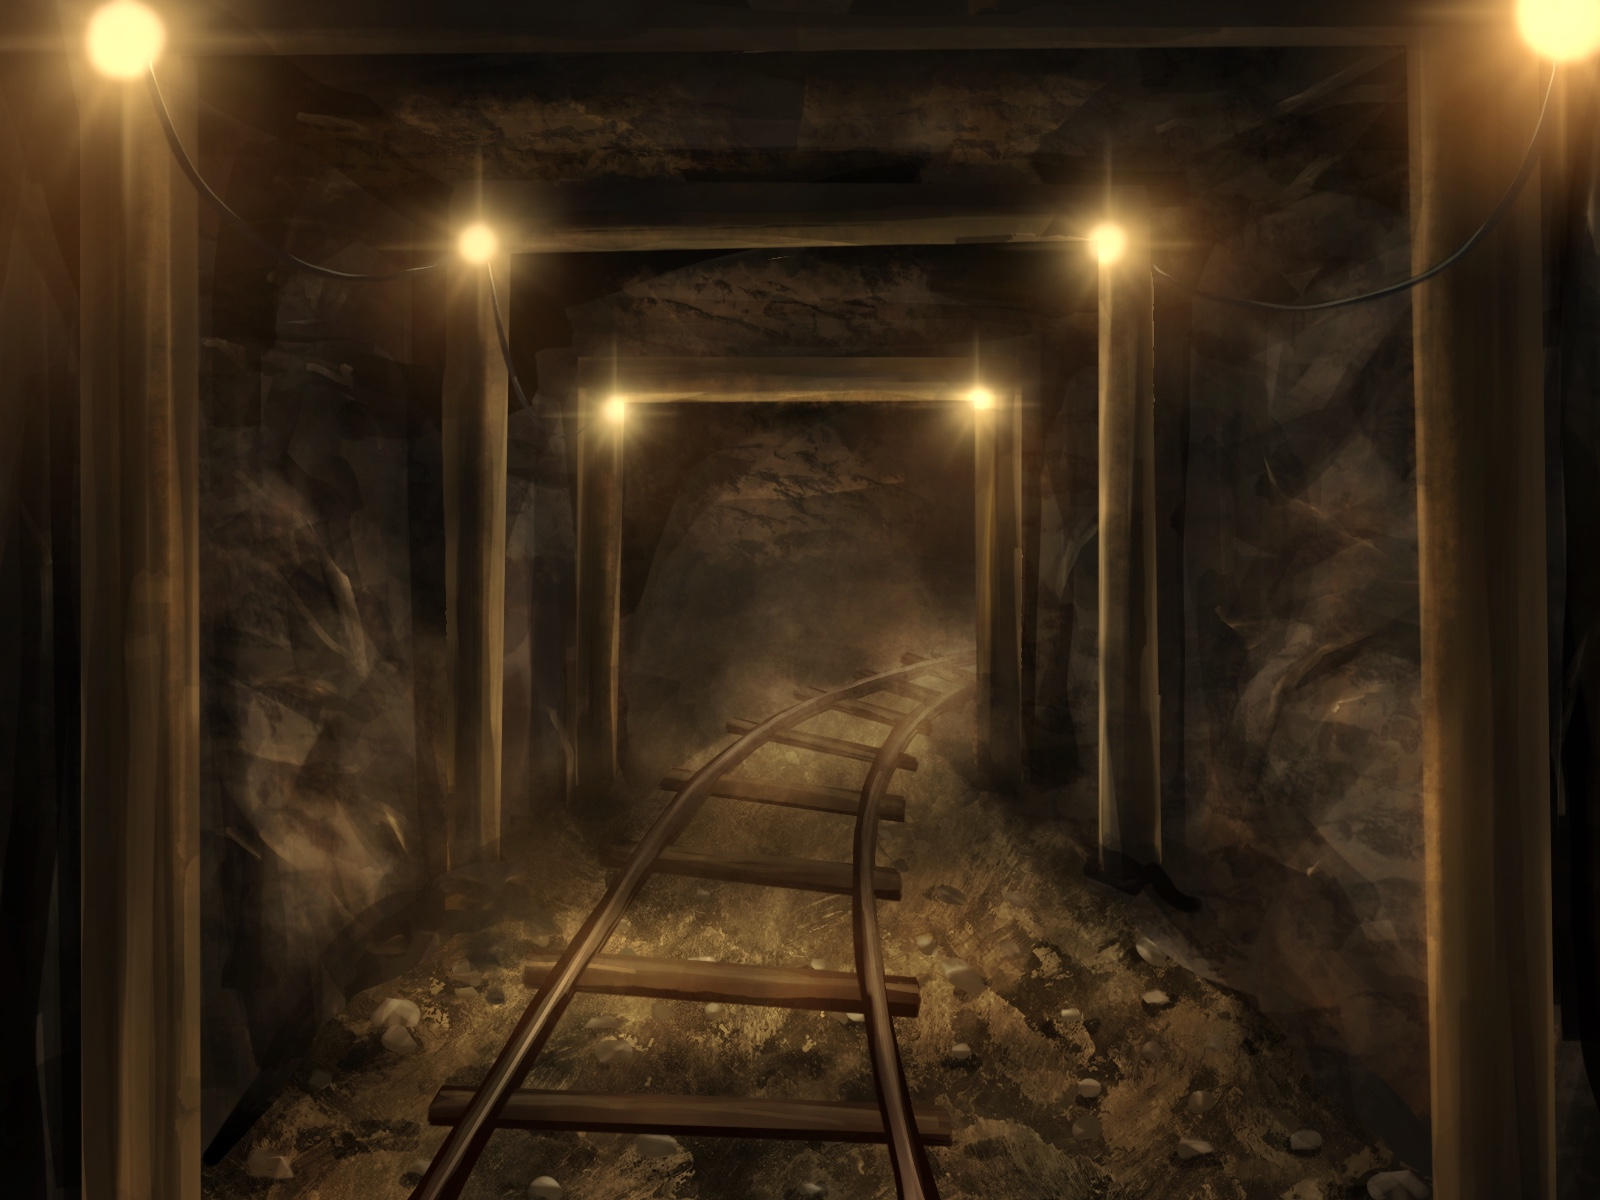
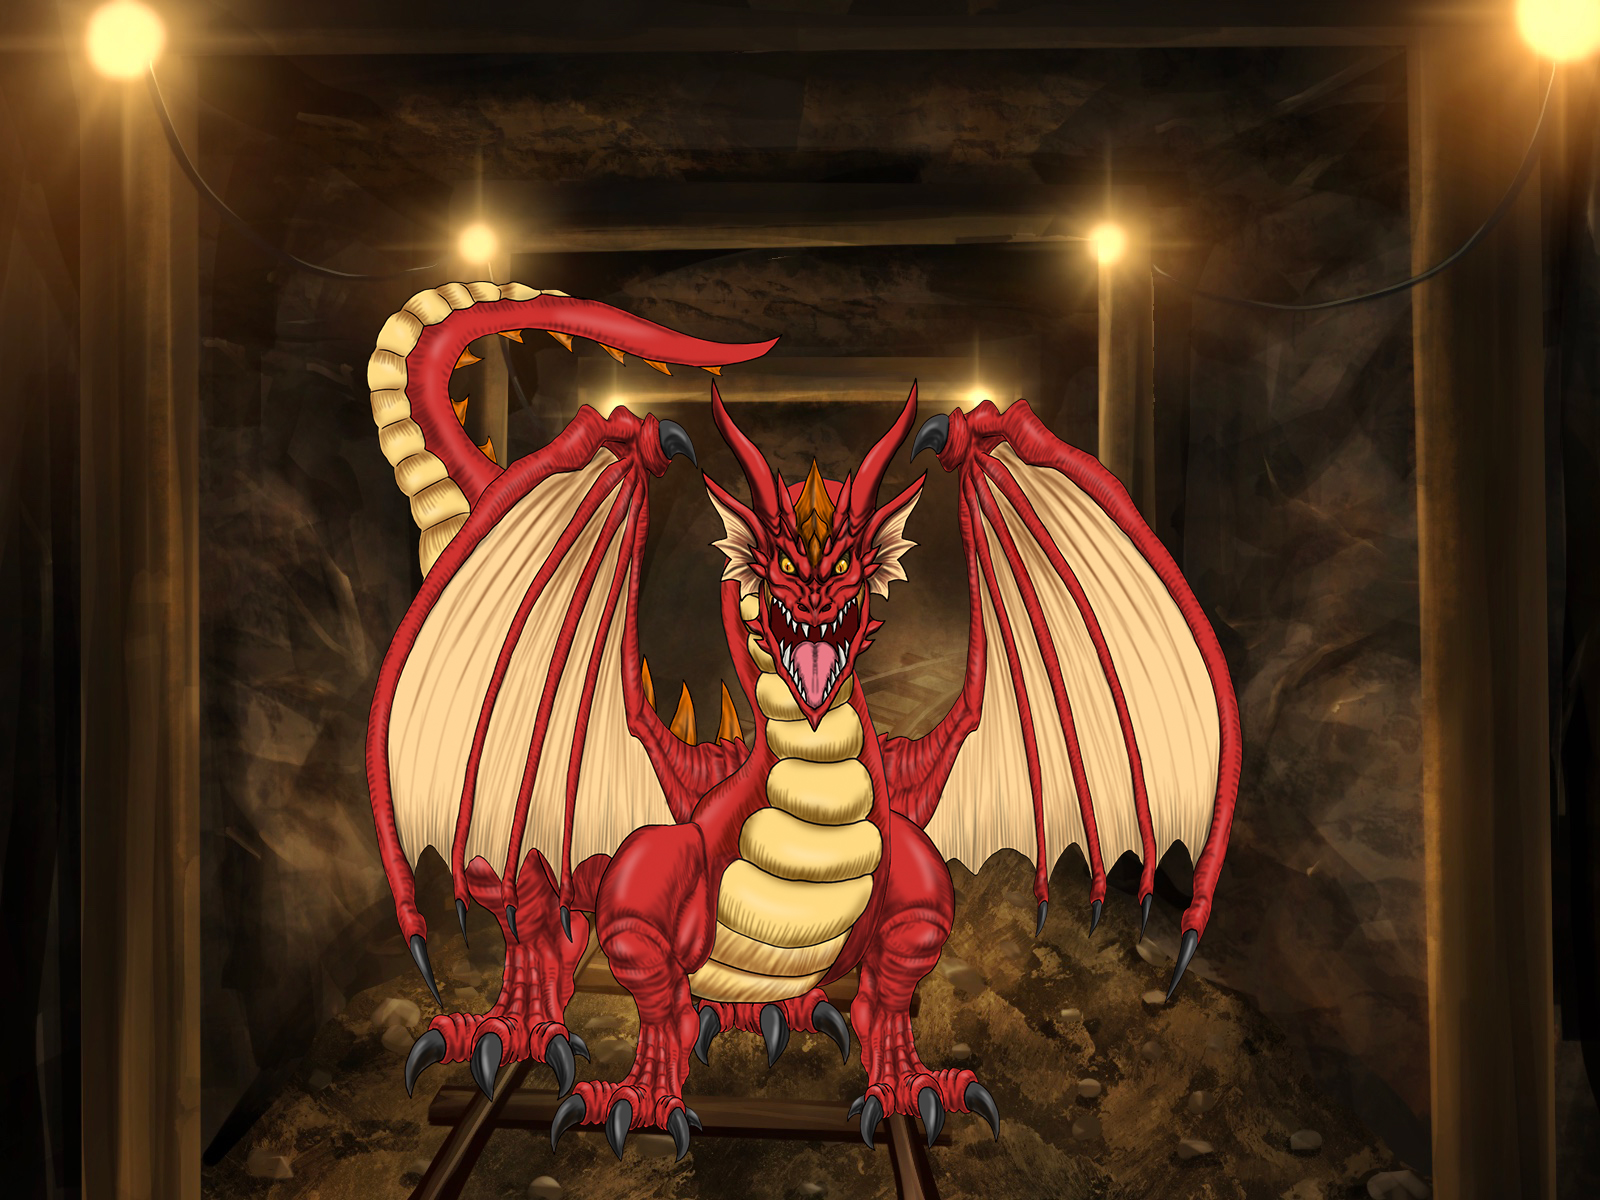
背景画像を合成しました

Changed region(s): [[0.2188, 0.2158, 0.7812, 0.9558]]

diff --git a/templates/game.html b/templates/game.html
@@ -24,7 +24,7 @@
                     <div class="monster_hp"></div>
                 </div>
             </div>
-            <img src="{{ url_for('static', filename='monster.png') }}" alt="monster">
+            <!--<img src="{{ url_for('static', filename='monster.png') }}" alt="monster">-->
             <div class="text">{{message}}</div>
         </div>
         <div class="rightwindow">
